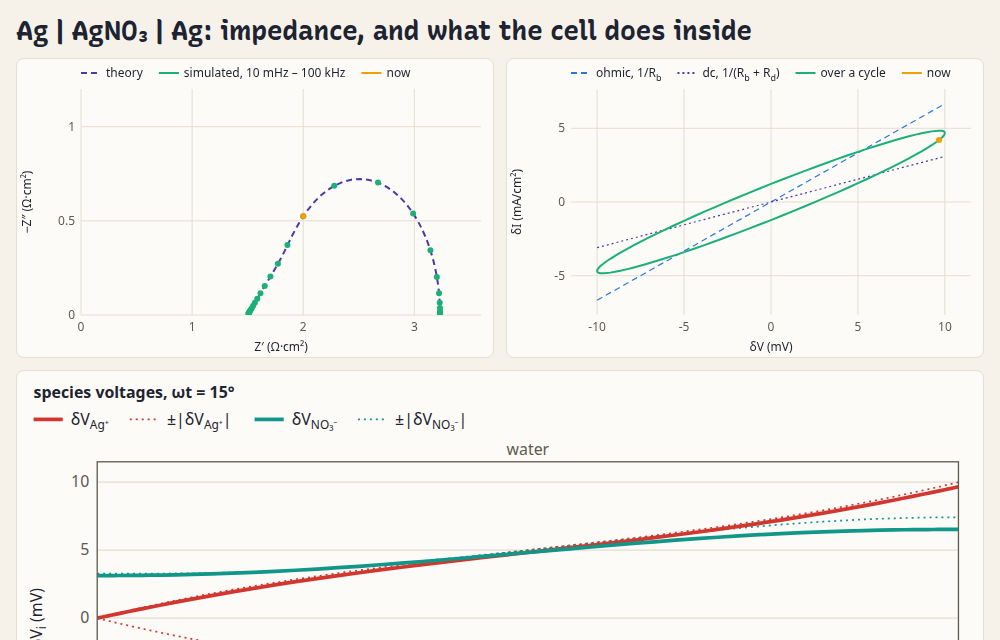
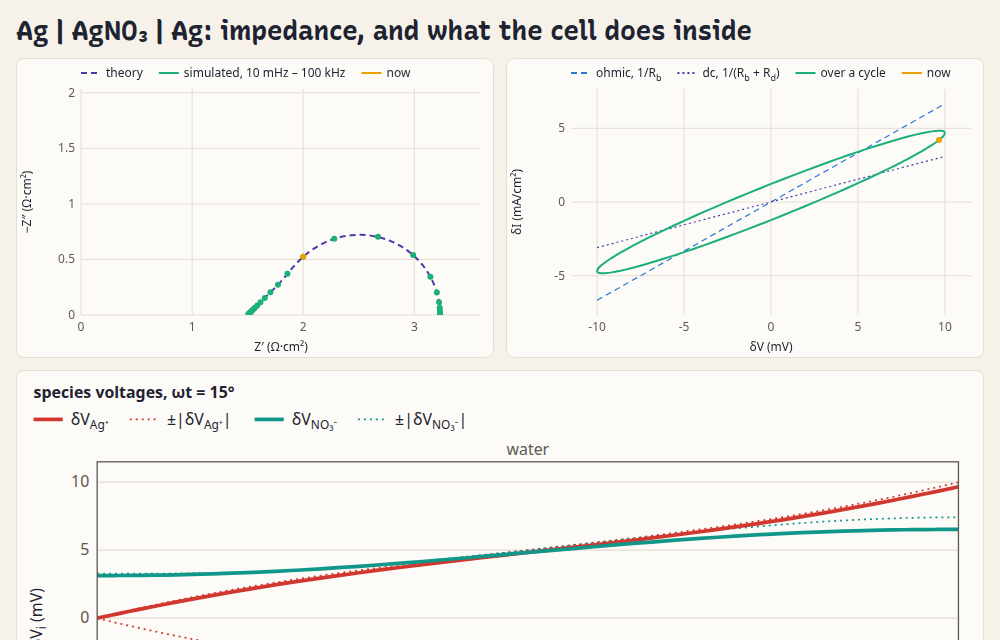
Impedance page: its Nyquist plot on equal scales
The same fault an open-brief review found on the Randles page: a fixed
3.6 by 1.2 span on a half-width canvas drew −Z″ about twice as tall as Z′, and
the Warburg's 45° line near 63°. Now one scale both ways, from the plot area.

diff --git a/demos/impedance.html b/demos/impedance.html
@@ -147,9 +147,12 @@ function frame(now = performance.now()) {
   const { f, z, p } = at;
   const mag2 = z.re * z.re + z.im * z.im, y = { re: z.re / mag2, im: -z.im / mag2 }; // admittance 1/Z
 
-  // Nyquist, with the chosen frequency marked.
-  chart(document.getElementById('nyquist'), {
-    xlabel: 'Z′ (Ω·cm²)', ylabel: '−Z″ (Ω·cm²)', xlim: [0, 3.6], ylim: [0, 1.2],
+  // Nyquist, with the chosen frequency marked, on equal scales (the chart's plot area is the canvas less
+  // 76 px across and 72 down): at least 3.6 by 1.2 Ω·cm², so a 45° line is drawn at 45°.
+  const nq = document.getElementById('nyquist'), pw = Math.max(1, nq.clientWidth - 76), ph = Math.max(1, nq.clientHeight - 72);
+  const per = Math.max(3.6 / pw, 1.2 / ph);
+  chart(nq, {
+    xlabel: 'Z′ (Ω·cm²)', ylabel: '−Z″ (Ω·cm²)', xlim: [0, per * pw], ylim: [0, per * ph],
     series: [
       { x: theory.map((w) => ohmCm2(w.re)), y: theory.map((w) => -ohmCm2(w.im)), color: colors[6], dash: [6, 4], label: 'theory' },
       { x: Array.from(spectrum.re, ohmCm2), y: Array.from(spectrum.im, (v) => -ohmCm2(v)), color: colors[2], marker: true, width: 0, label: 'simulated, 10 mHz – 100 kHz' },
